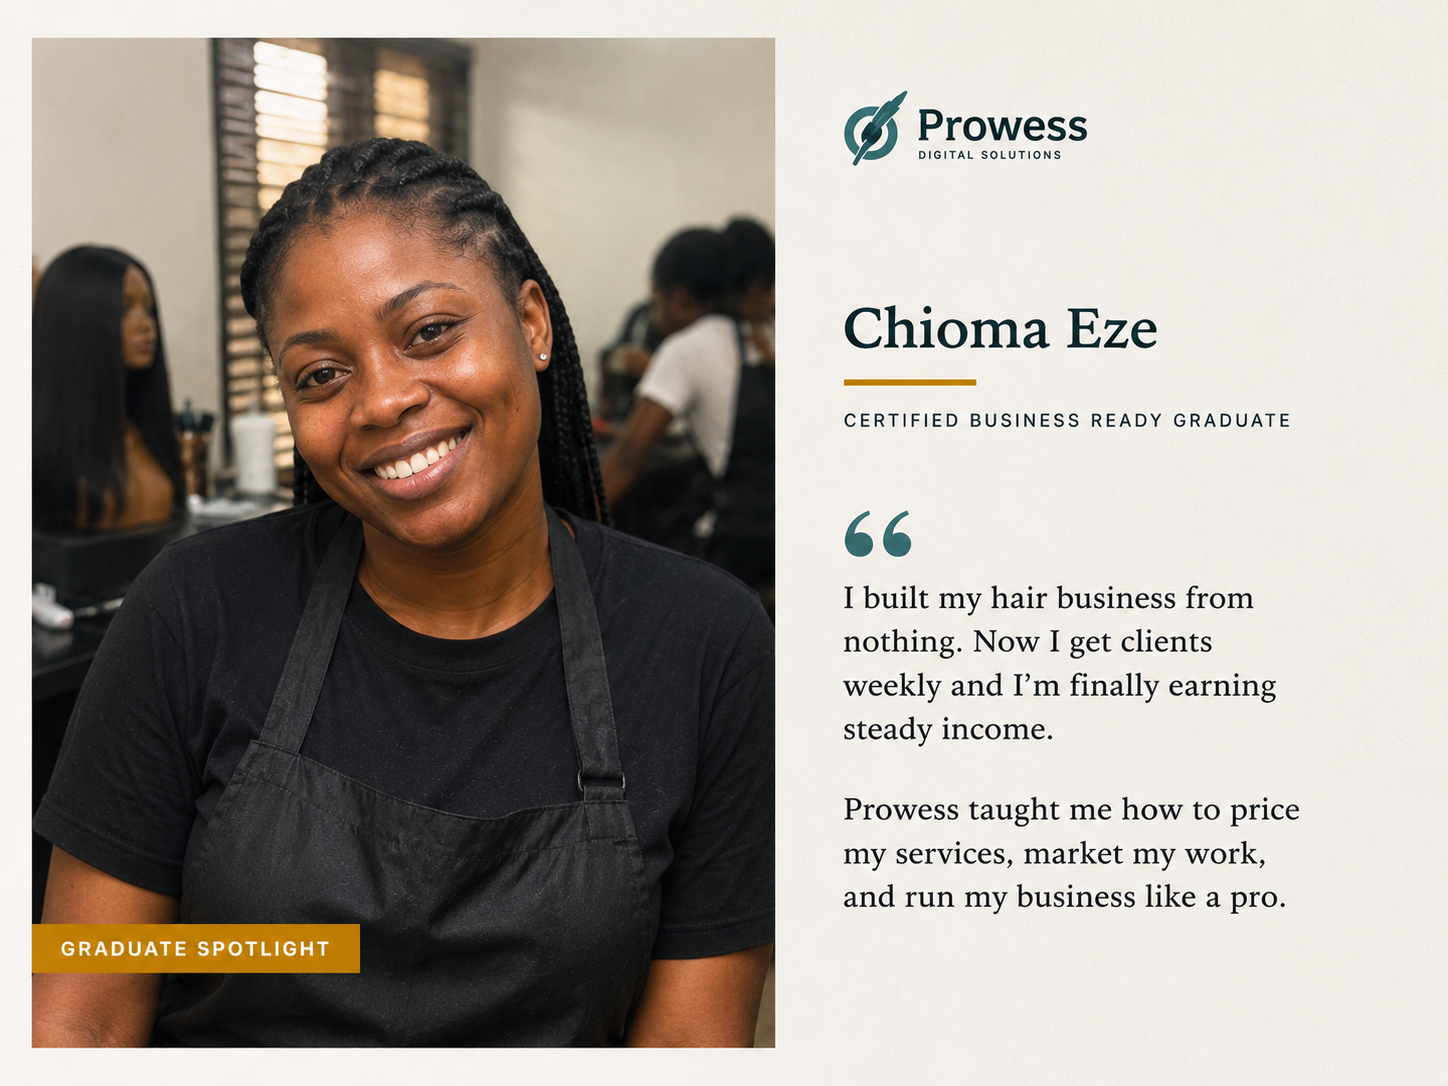
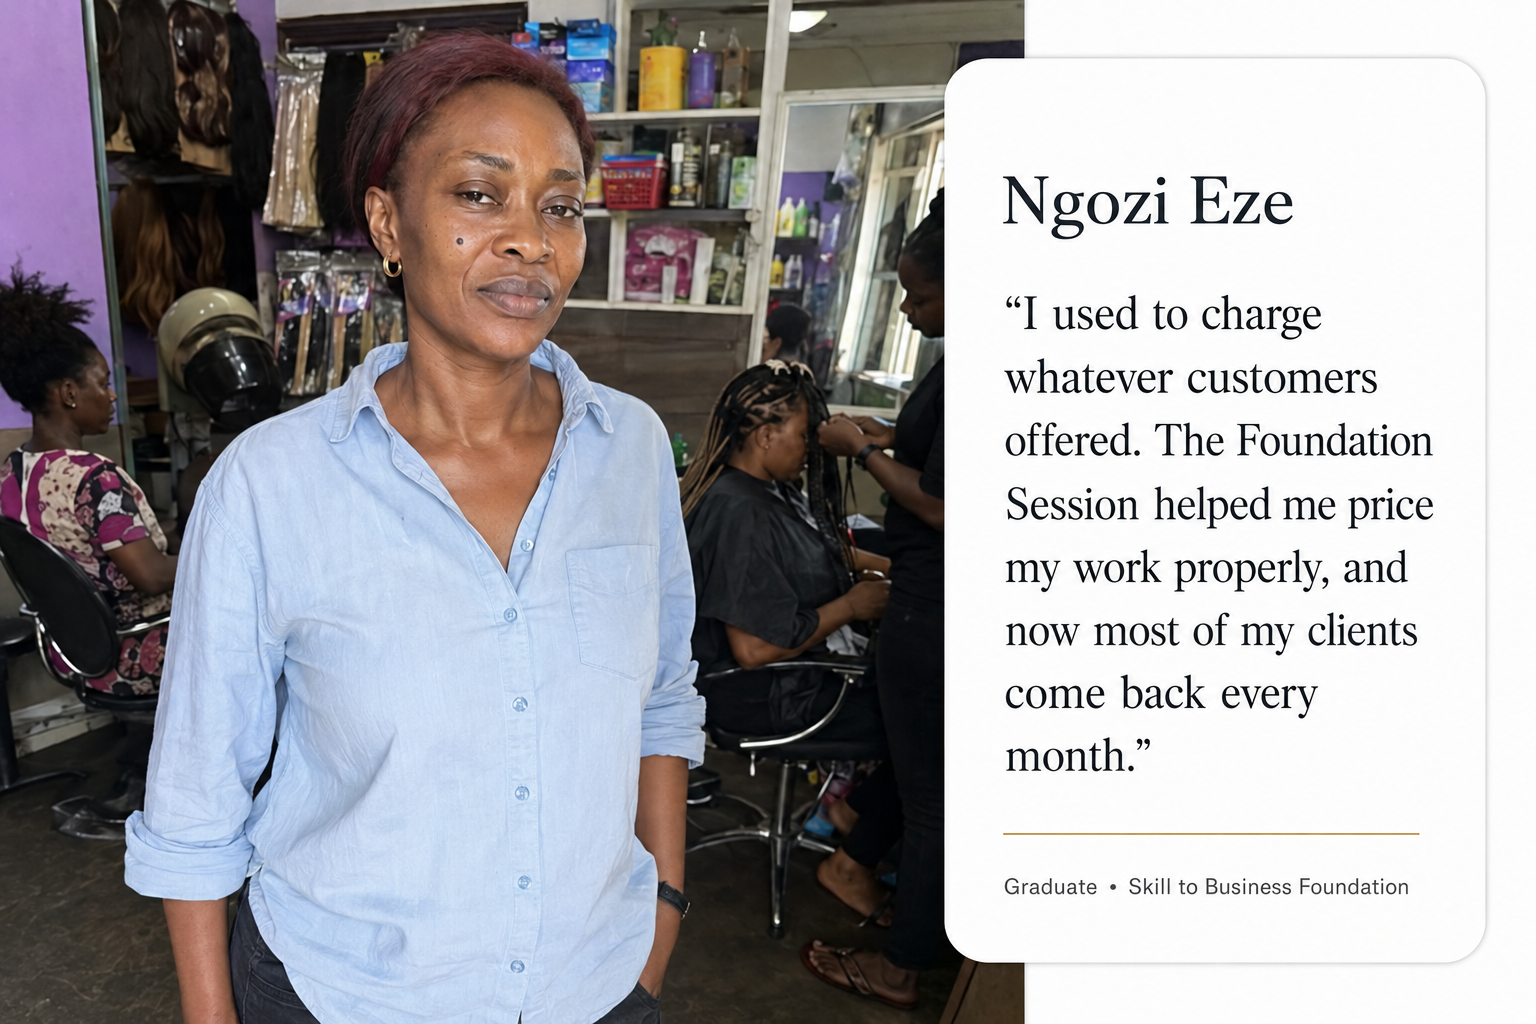
fix reviews

diff --git a/src/app/skill-to-business/page.tsx b/src/app/skill-to-business/page.tsx
@@ -8,12 +8,13 @@ import { Reveal } from "@/components/Reveal";
 import SkillToBusinessIntakeModal from "@/components/SkillToBusinessIntakeModal";
 
 const graduateSpotlights = [
-  { src: "/images/skill to business/review 1.png", name: "Iledayo Adeyemi" },
-  { src: "/images/skill to business/review 2.png", name: "Chioma Eze" },
-  { src: "/images/skill to business/review 3.png", name: "Ngozi Daniels" },
-  { src: "/images/skill to business/review 4.png", name: "Temilade Abiola" },
-  { src: "/images/skill to business/review 5.png", name: "David Okonkwo" },
-  { src: "/images/skill to business/review 6.png", name: "Emeka Nwosu" },
+  { src: "/images/skill to business/review 1.png", name: "Bolu Adebayo" },
+  { src: "/images/skill to business/review 2.png", name: "Ngozi Eze" },
+  { src: "/images/skill to business/review 3.png", name: "Fatima Musa" },
+  { src: "/images/skill to business/review 4.png", name: "Amina Yusuf" },
+  { src: "/images/skill to business/review 5.png", name: "Kunle Akinyemi" },
+  { src: "/images/skill to business/review 6.png", name: "Chinedu Okoro" },
+  { src: "/images/skill to business/review 7.png", name: "Grace Nwankwo" },
 ];
 
 const gapCards = [
@@ -406,11 +407,18 @@ export default function SkillToBusinessPage() {
                 style={{ transform: `translateX(-${spotlightIndex * 100}%)` }}
               >
                 {spotlightSlides.map((slide, slideIdx) => (
-                  <div key={slideIdx} className="grid w-full flex-shrink-0 gap-6 px-1 sm:grid-cols-2">
+                  <div
+                    key={slideIdx}
+                    className={`w-full flex-shrink-0 gap-6 px-1 ${
+                      slide.length === 2 ? "grid sm:grid-cols-2" : "flex justify-center"
+                    }`}
+                  >
                     {slide.map((g) => (
                       <div
                         key={g.src}
-                        className="relative aspect-[4/3] w-full overflow-hidden rounded-2xl border border-border bg-background shadow-sm"
+                        className={`relative aspect-[3/2] w-full overflow-hidden rounded-2xl border border-border bg-background shadow-sm ${
+                          slide.length === 1 ? "sm:w-1/2" : ""
+                        }`}
                       >
                         <Image
                           src={g.src}
